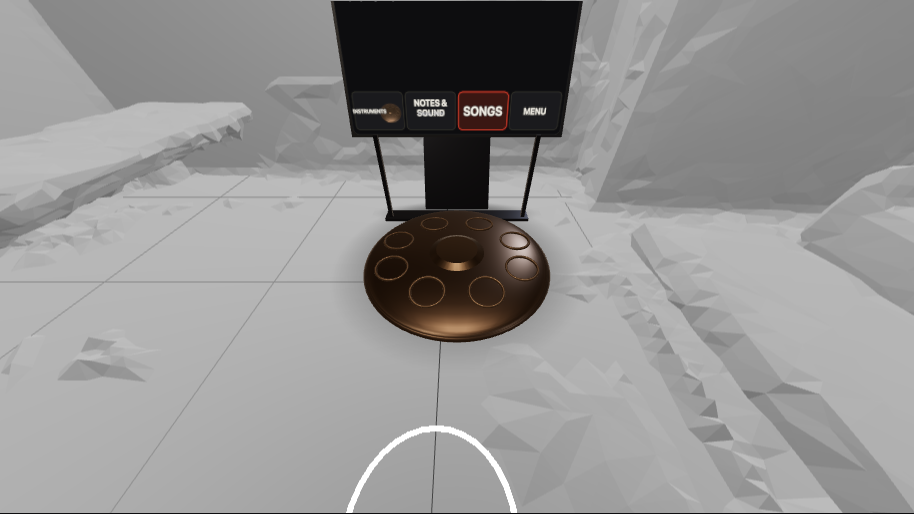
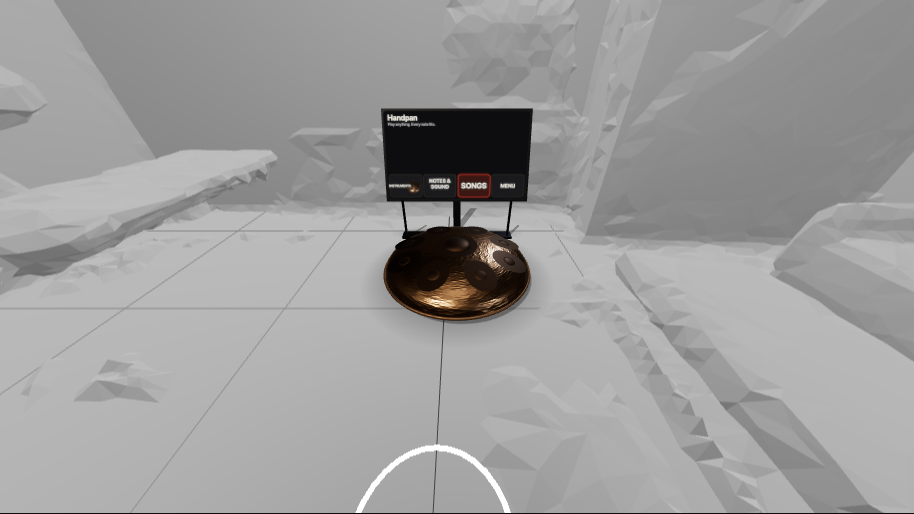
The handpan as a handpan; the marimba in darker rosewood
A lens of two hammered bronze shells joined at a rolled rim, 8 cm
tall, the ding a raised dome, the tone fields sunken ovals with a
dimple, tipped with the dome; struck by hand where each field is on
it, and a field a song asks for glows on the shell itself. The
marimba's bars a deep rosewood, its resonators longer in gold.

diff --git a/src/scene-assets/lib/instruments.ts b/src/scene-assets/lib/instruments.ts
@@ -6,11 +6,11 @@
  * when strummed. A handpan: a nitrided steel shell with its tone fields and raised ding. A marimba: rosewood bars
  * that bounce, on a frame. Deterministic: the same in the app and the editor.
  */
-import { BoxGeometry, CircleGeometry, DoubleSide, MeshBasicMaterial, CylinderGeometry, ExtrudeGeometry, Group, LatheGeometry, Mesh, MeshPhysicalMaterial, MeshStandardMaterial, RingGeometry, Shape, TorusGeometry, Vector2 } from '@iwsdk/core';
+import { BoxGeometry, CircleGeometry, SphereGeometry, DoubleSide, MeshBasicMaterial, CylinderGeometry, ExtrudeGeometry, Group, LatheGeometry, Mesh, MeshPhysicalMaterial, MeshStandardMaterial, RingGeometry, Shape, TorusGeometry, Vector2 } from '@iwsdk/core';
 import type { Zone } from '../../room/zones.js';
-import { CONGA, KEYBOARD, PIANO_CHORD } from '../../kit/shelf.js';
+import { CONGA, HANDPAN, KEYBOARD, PIANO_CHORD, handpanShape, handpanY } from '../../kit/shelf.js';
 import { KEY, buildPiano, isBlack } from './piano.js';
-import { fineNormal, woodGrain } from './surfaces.js';
+import { fineNormal, hammered, woodGrain } from './surfaces.js';
 
 const mat = (name: string, color: number, roughness: number, metalness = 0) => new MeshStandardMaterial({ name, color, roughness, metalness });
 const named = <T extends { name: string }>(o: T, n: string): T => {
@@ -23,6 +23,8 @@ export interface DeskModel {
   readonly root: Group;
   layout(zones: readonly Zone[]): void;
   struck(i: number, gain: number): void;
+  /** Light part i at k (0..1) when a song asks for it, if it lights itself (else the overlay does). */
+  light?(i: number, k: number): void;
   update(dt: number): void;
 }
 
@@ -233,51 +235,67 @@ export class HandpanModel implements DeskModel {
   readonly root = named(new Group(), 'Handpan');
   private fields: Mesh[] = [];
   private spring = new Springs(10);
-  private shell: Mesh | null = null;
-  // (both sides drawn: the lathe's faces turn inward, and from above the shell vanished)
-  private readonly steel = new MeshStandardMaterial({ name: 'Steel', color: 0x4a3a2c, roughness: 0.32, metalness: 0.85, side: DoubleSide });
-  private readonly field = mat('Field', 0x5c4a38, 0.22, 0.9);
   private glow: number[] = [];
+  // nitrided steel: warm bronze, hammered all over
+  private readonly steel = (() => {
+    const n = hammered().clone();
+    n.needsUpdate = true;
+    n.repeat.set(9, 9);
+    return new MeshStandardMaterial({ name: 'Steel', color: 0x8a6a4c, roughness: 0.28, metalness: 1, normalMap: n, side: DoubleSide });
+  })();
+  private readonly rim = new MeshStandardMaterial({ name: 'Rim', color: 0x8a6a4c, roughness: 0.2, metalness: 1 });
+  private readonly fieldMat = new MeshStandardMaterial({ name: 'Field', color: 0x4a3828, roughness: 0.45, metalness: 1 });
 
   layout(zones: readonly Zone[]): void {
     this.root.clear();
     this.fields = [];
     if (!zones.length) return;
-    const ding = zones[0];
-    let R = 0;
-    for (const q of zones) R = Math.max(R, Math.hypot(q.x - ding.x, q.z - ding.z) + q.w);
-    R += 0.012;
-    // the shell: a low steel dome with a rolled rim (a handpan's lens shape, seen from above)
-    // (low: your hand lands on the real desk under it, so it stays a lens, not a dome)
-    const H = 0.016;
-    const pts: Vector2[] = [];
-    for (let k = 0; k <= 16; k++) {
-      const a = (k / 16) * (Math.PI / 2);
-      pts.push(new Vector2(Math.cos(a) * R + 0.0001, 0.006 + Math.sin(a) * H * Math.cos(a * 0.3)));
+    const { x: cx, z: cz, R } = handpanShape(zones);
+    // the lens: a top shell rising to the ding, a shallower bottom shell down to the desk (its port underneath),
+    // joined at a rolled rim
+    const top: Vector2[] = [];
+    for (let k = 0; k <= 24; k++) {
+      const r = R * (1 - k / 24);
+      top.push(new Vector2(Math.max(0.0005, r), handpanY(r, R)));
     }
-    pts.reverse();
-    pts.push(new Vector2(R + 0.004, 0.004), new Vector2(R + 0.002, 0));
-    this.shell = named(new Mesh(new LatheGeometry(pts, 64), this.steel), 'Shell');
-    this.shell.position.set(ding.x, 0, -ding.z);
-    this.root.add(this.shell);
-    // tone fields: shallow dimples on the shell, the ding raised in the middle
+    const shell = named(new Mesh(new LatheGeometry(top.reverse(), 72), this.steel), 'Shell');
+    const bottom: Vector2[] = [];
+    for (let k = 0; k <= 12; k++) {
+      const t = k / 12;
+      bottom.push(new Vector2(R * (1 - 0.45 * t), HANDPAN.rim * (1 - t * t) + 0.001));
+    }
+    const under = named(new Mesh(new LatheGeometry(bottom, 72), this.steel), 'Bottom');
+    const band = named(new Mesh(new TorusGeometry(R, 0.0028, 10, 96), this.rim), 'Rim');
+    band.rotation.x = -Math.PI / 2;
+    band.position.y = HANDPAN.rim;
+    for (const m of [shell, under, band]) m.position.set(cx, m.position.y, -cz);
+    this.root.add(shell, under, band);
+    // the ding: a raised dome; the tone fields: sunken ovals (longer along the radius) with a dimple, on the shell
     zones.forEach((q, i) => {
-      const r = q.w;
-      const d = Math.hypot(q.x - ding.x, q.z - ding.z) / R;
-      const y = 0.006 + H * Math.sqrt(Math.max(0, 1 - d * d)) * 0.98;
-      const g = i === 0 ? new CylinderGeometry(r * 0.75, r, 0.006, 40) : new TorusGeometry(r * 0.82, 0.0022, 8, 40);
-      // (each field its own material, so a struck one can glow)
-      const m = named(new Mesh(g, this.field.clone()), i === 0 ? 'Ding' : `Field${i}`);
-      if (i !== 0) m.rotation.x = -Math.PI / 2;
-      m.position.set(q.x, y + (i === 0 ? 0.003 : 0.001), -q.z);
-      // tilted with the dome under it
-      if (i !== 0) {
-        // tilted with the dome under it
-        m.rotation.z = -((q.x - ding.x) / R) * 0.25;
-        m.rotation.x = -Math.PI / 2 - ((q.z - ding.z) / R) * 0.25;
-      }
-      this.fields.push(m);
-      this.root.add(m);
+      const dx = q.x - cx;
+      const dz = q.z - cz;
+      const d = Math.hypot(dx, dz);
+      const y = handpanY(d, R);
+      const g = new Group();
+      g.name = i === 0 ? 'Ding' : `Field${i}`;
+      g.position.set(q.x, y, -q.z);
+      // tip it with the dome under it
+      const slope = (HANDPAN.dome * d) / (R * R * Math.sqrt(Math.max(0.05, 1 - (d / R) * (d / R))));
+      // (turned to face out from the centre, in the scene's own axes: z toward you is the zones' −z; then tipped
+      // outward with the dome)
+      g.rotation.order = 'YXZ';
+      g.rotation.y = Math.atan2(dx, -dz);
+      g.rotation.x = Math.atan(slope);
+      const mat = this.fieldMat.clone();
+      const oval = new Mesh(new CircleGeometry(q.w * 0.92, 40), mat);
+      oval.rotation.x = -Math.PI / 2;
+      oval.scale.set(1, i === 0 ? 1 : 1.3, 1);
+      oval.position.y = 0.0006;
+      const dome = new Mesh(new SphereGeometry(q.w * (i === 0 ? 0.62 : 0.42), 28, 12, 0, Math.PI * 2, 0, Math.PI / 2), mat);
+      dome.scale.y = i === 0 ? 0.32 : 0.16;
+      g.add(oval, dome);
+      this.fields.push(oval);
+      this.root.add(g);
     });
   }
 
@@ -286,15 +304,25 @@ export class HandpanModel implements DeskModel {
     this.glow[i] = 0.6 + 0.6 * gain;
   }
 
+  /** A field asked for by a song glows on the shell itself. */
+  private asked: number[] = [];
+  light(i: number, k: number): void {
+    this.asked[i] = Math.max(this.asked[i] ?? 0, k);
+  }
+
   update(dt: number): void {
     this.spring.step(dt, 1400, 18);
-    this.fields.forEach((m, i) => {
-      // a struck field rings: it swells and glows warm, fading in about a sixth of a second
-      const s = 1 + Math.abs(this.spring.x[i]) * 12;
-      m.scale.set(s, i === 0 ? 1 : s, s);
+    for (let i = 0; i < this.fields.length; i++) {
+      const ask = this.asked[i] ?? 0;
+      this.asked[i] = 0;
+      if (ask > (this.glow[i] ?? 0)) this.glow[i] = ask * 0.9;
+      const m = this.fields[i];
+      // a struck field rings: it swells a touch and glows warm, fading in about a sixth of a second
+      const s = 1 + Math.abs(this.spring.x[i]) * 6;
+      m.parent!.scale.setScalar(s);
       const g = (this.glow[i] = Math.max(0, (this.glow[i] ?? 0) - dt * 6));
       (m.material as MeshStandardMaterial).emissive.setHex(0xffc27a).multiplyScalar(g);
-    });
+    }
   }
 }
 
@@ -308,12 +336,13 @@ export class MarimbaModel implements DeskModel {
     map.needsUpdate = true;
     map.repeat.set(18, 5);
     map.rotation = Math.PI / 2;
-    return new MeshPhysicalMaterial({ name: 'Rosewood', color: 0x8a3f20, map, roughness: 0.45, clearcoat: 0.6, clearcoatRoughness: 0.22 });
+    return new MeshPhysicalMaterial({ name: 'Rosewood', color: 0x5e2a1a, map, roughness: 0.38, clearcoat: 0.5, clearcoatRoughness: 0.22 });
   })();
   private readonly frame = new MeshPhysicalMaterial({ name: 'Frame', color: 0x3b2416, map: woodGrain(43), roughness: 0.5, clearcoat: 0.4, clearcoatRoughness: 0.3 });
   private readonly cord = mat('Cord', 0x26211c, 0.9);
   private readonly brass = mat('Brass', 0xc8a050, 0.3, 1);
   private readonly chrome = mat('Chrome', 0xe2e5ea, 0.16, 1);
+  private readonly gold = mat('Anodised', 0xb8955a, 0.3, 1);
 
   layout(zones: readonly Zone[]): void {
     this.root.clear();
@@ -379,8 +408,8 @@ export class MarimbaModel implements DeskModel {
       bar.position.set(q.x, this.barY, -q.z);
       this.bars.push(bar);
       // its resonator: a chrome tube lying behind it, longer for the low bars, capped
-      const tl = 0.024 + 0.026 * (1 - i / Math.max(1, zones.length - 1));
-      const tube = named(new Mesh(new CylinderGeometry(0.0075, 0.0075, tl, 20, 1, false), this.chrome), `Resonator${i}`);
+      const tl = 0.06 + 0.08 * (1 - i / Math.max(1, zones.length - 1));
+      const tube = named(new Mesh(new CylinderGeometry(0.008, 0.008, tl, 20, 1, false), this.gold), `Resonator${i}`);
       tube.rotation.x = Math.PI / 2;
       tube.position.set(q.x, 0.0078, -(q.z + q.h / 2 + 0.012 + tl / 2));
       this.root.add(bar, tube);

diff --git a/src/room/room-system.ts b/src/room/room-system.ts
@@ -58,7 +58,7 @@ import { ACTIVE_M, AUTOPLAY, DEBUG, FIXED_DESK, params, NEAR_MAX, NEAR_MIN, SEAT
 import { SwapGesture } from './swaps.js';
 import { TouchFinder, becomesKeys, clapIn, grow, isClap, touchVoice, type Touch } from './touch.js';
 import { soundById, stepSound } from '../audio/bank.js';
-import { CONGA, KEYBOARD, PIANO_CHORD, PIANO_LOW, SCALES, SHELF, STRUM, instDef, instZones, percVoice, pianoBlacks, scaleById, scaleMidi, stepShelf, strumNotes, type InstId } from '../kit/shelf.js';
+import { CONGA, KEYBOARD, PIANO_CHORD, PIANO_LOW, SCALES, handpanShape, handpanY, SHELF, STRUM, instDef, instZones, percVoice, pianoBlacks, scaleById, scaleMidi, stepShelf, strumNotes, type InstId } from '../kit/shelf.js';
 import type { ShelfView } from '../play/game.js';
 import { Mallets } from './mallets.js';
 import { HitLog, TUNE_ITEMS, current, fmt, stepValue, type StrikeTune } from './tuning.js';
@@ -363,7 +363,7 @@ export class RoomSystem extends createSystem({ planes: { required: [XRPlane] }, 
         if (!key.startsWith(this.kit.instKey)) return;
         // (the guitar's strum lights its six strings)
         if (this.kit.inst === 'guitar' && r.zone >= 9) for (let s = 3; s < 9; s++) this.kit.instOverlay()?.light(s, k);
-        else this.kit.instOverlay()?.light(r.zone % PIANO_LOW, k);
+        else this.kit.instLight(r.zone % PIANO_LOW, k);
       } else if (r.surface) this.overlays.get(r.surface)?.light(r.zone, k);
     },
     shelf: (dir) => this.shelfStep(dir),
@@ -1380,7 +1380,8 @@ export class RoomSystem extends createSystem({ planes: { required: [XRPlane] }, 
       }
       const z = this.kit.instZones[r.zone % PIANO_LOW];
       if (!z) return false;
-      out.set(z.x, this.kit.inst === 'marimba' ? 0.016 : this.kit.inst === 'handpan' ? 0.02 : this.kit.inst === 'guitar' ? 0.024 : this.kit.inst === 'congas' ? CONGA.top + 0.002 : this.kit.inst === 'piano' ? KEYBOARD.top + 0.001 : 0.013, -z.z);
+      const hp = this.kit.inst === 'handpan' ? handpanShape(this.kit.instZones) : null;
+      out.set(z.x, this.kit.inst === 'marimba' ? 0.016 : hp ? handpanY(Math.hypot(z.x - hp.x, z.z - hp.z), hp.R) + 0.003 : this.kit.inst === 'guitar' ? 0.024 : this.kit.inst === 'congas' ? CONGA.top + 0.002 : this.kit.inst === 'piano' ? KEYBOARD.top + 0.001 : 0.013, -z.z);
       root.localToWorld(out);
       col.setHex(instDef(this.kit.inst).color);
       t.round = z.shape === 'disc';
@@ -2388,24 +2389,39 @@ export class RoomSystem extends createSystem({ planes: { required: [XRPlane] }, 
     const out = this.kitOutT >= 0 && this.placement.phase === 'placed';
     const drums = out && this.kit.inst === 'drums';
     const piano = out && this.kit.inst === 'piano';
-    const congas = out && this.kit.inst === 'congas';
+    const congas = out && (this.kit.inst === 'congas' || this.kit.inst === 'handpan');
+    const isPan = this.kit.inst === 'handpan';
     // the heads, where the pads stand now
     let n = 0;
     if (piano) n = this.pianoSurfaces();
     if (congas)
-      // (each drum's middle before its edge: a hand in the middle plays the open tone)
-      for (const pass of [0, 1])
+      if (isPan) {
+        // the handpan: each field a disc at its height on the dome
+        const sh = handpanShape(this.kit.instZones);
         for (const q of this.kit.instZones) {
-          if (q.i % 2 !== pass) continue;
           const s = this.airSurf[n++];
           s.id = q.i;
           s.face = 'up';
           s.x = q.x;
-          s.y = CONGA.top;
+          s.y = handpanY(Math.hypot(q.x - sh.x, q.z - sh.z), sh.R);
           s.z = -q.z;
-          s.r = q.w + (pass ? 0.006 : 0);
+          s.r = q.w + 0.004;
           s.w = undefined;
         }
+      } else
+        // (each conga's middle before its edge: a hand in the middle plays the open tone)
+        for (const pass of [0, 1])
+          for (const q of this.kit.instZones) {
+            if (q.i % 2 !== pass) continue;
+            const s = this.airSurf[n++];
+            s.id = q.i;
+            s.face = 'up';
+            s.x = q.x;
+            s.y = CONGA.top;
+            s.z = -q.z;
+            s.r = q.w + (pass ? 0.006 : 0);
+            s.w = undefined;
+          }
     if (drums)
       for (const lane of AIR_LANES) {
         const p = this.kit.pad(lane);
@@ -2475,7 +2491,7 @@ export class RoomSystem extends createSystem({ planes: { required: [XRPlane] }, 
           this.airStrike.gain = hit.gain;
           const pan = Math.max(-0.8, Math.min(0.8, this.airP.x / 0.4));
           if (congas) {
-            this.playZone('congas', hit.surface, side, hit.gain, pan, this.clock.t, this.airStrike);
+            this.playZone(this.kit.inst, hit.surface, side, hit.gain, pan, this.clock.t, this.airStrike);
             this.debug.hits++;
             continue;
           }
@@ -2841,7 +2857,7 @@ export class RoomSystem extends createSystem({ planes: { required: [XRPlane] }, 
     const pan = Math.max(-0.8, Math.min(0.8, x / 0.4));
     // (the piano's keys are up in its case: fingertips press them there, src/input/air-hits.ts; the desk under it
     // plays nothing)
-    if (id === 'piano' || id === 'congas') return;
+    if (id === 'piano' || id === 'congas' || id === 'handpan') return;
     // the nearest zone the hand is on (with a little give round each)
     let best = -1;
     let bd = Infinity;
@@ -3712,7 +3728,7 @@ export class RoomSystem extends createSystem({ planes: { required: [XRPlane] }, 
       const id = key.slice(0, key.indexOf(':')) as InstId;
       const q = this.kit.inst === id ? this.kit.instZones[r.zone % PIANO_LOW] : null;
       // (the piano's keys are pressed in the air: as a finger would)
-      if (q && (id === 'piano' || id === 'congas')) {
+      if (q && (id === 'piano' || id === 'congas' || id === 'handpan')) {
         const st = fakeStrike(t);
         this.playZone(id, q.i, 'left', st.gain, 0, t, st);
       } else if (q) {
@@ -3856,7 +3872,8 @@ export class RoomSystem extends createSystem({ planes: { required: [XRPlane] }, 
     // the instrument on the desk: each of its notes (and the guitar's strum band)
     // (each where it's struck: the piano's keys are up in its case)
     const top = this.kit.inst === 'piano' ? KEYBOARD.top : this.kit.inst === 'congas' ? CONGA.top : 0;
-    this.kit.instZones.forEach((z, i) => (out[`inst${i}`] = root.localToWorld(this.tmp.set(z.x, top, -z.z)).toArray().map(r4)));
+    const hp = this.kit.inst === 'handpan' ? handpanShape(this.kit.instZones) : null;
+    this.kit.instZones.forEach((z, i) => (out[`inst${i}`] = root.localToWorld(this.tmp.set(z.x, hp ? handpanY(Math.hypot(z.x - hp.x, z.z - hp.z), hp.R) : top, -z.z)).toArray().map(r4)));
     if (this.kit.inst === 'guitar') out.strum = root.localToWorld(this.tmp.set((STRUM.x0 + STRUM.x1) / 2, 0, -(STRUM.z0 + STRUM.z1) / 2)).toArray().map(r4);
     out.inst = [SHELF.findIndex((d) => d.id === this.kit.inst)];
     for (const it of this.kit.module.page?.items ?? []) {

diff --git a/src/scene-assets/lib/surfaces.ts b/src/scene-assets/lib/surfaces.ts
@@ -99,3 +99,37 @@ export function cymbalRings(): { map: DataTexture; rough: DataTexture } {
   );
   return { map, rough };
 }
+
+/**
+ * Hammered steel (a normal map): shallow round dimples about 8 mm across, packed unevenly, the way a handpan's shell
+ * is hammered. Tiles; repeat it to the size wanted.
+ */
+export function hammered(): DataTexture {
+  return once('hammered', () => {
+    const r = rng(23);
+    const N = 128;
+    const cells = Array.from({ length: 70 }, () => ({ x: r() * N, y: r() * N }));
+    return tex(N, N, (x, y) => {
+      // the nearest dimple's centre (wrapping), and the slope toward it
+      let best = 1e9;
+      let dx = 0;
+      let dy = 0;
+      for (const c of cells)
+        for (const ox of [-N, 0, N])
+          for (const oy of [-N, 0, N]) {
+            const ex = x - (c.x + ox);
+            const ey = y - (c.y + oy);
+            const d = ex * ex + ey * ey;
+            if (d < best) {
+              best = d;
+              dx = ex;
+              dy = ey;
+            }
+          }
+      const k = Math.sqrt(best) / 9;
+      const s = Math.min(1, k) * 20;
+      const len = Math.sqrt(best) || 1;
+      return [128 + (dx / len) * s, 128 + (dy / len) * s, 245];
+    }, false);
+  });
+}

diff --git a/src/kit/shelf.ts b/src/kit/shelf.ts
@@ -216,6 +216,22 @@ export function congaZones(): Zone[] {
   return out;
 }
 
+/** The handpan's lens: its rim this high off the desk, its top shell rising this much more to the ding. */
+export const HANDPAN = { rim: 0.026, dome: 0.05 } as const;
+/** The handpan's centre and outer radius (from its zones: the ding first, the fields round it). */
+export function handpanShape(zones: readonly Zone[]): { x: number; z: number; R: number } {
+  const ding = zones[0];
+  if (!ding) return { x: 0, z: 0, R: 0.15 };
+  let R = 0;
+  for (const q of zones) R = Math.max(R, Math.hypot(q.x - ding.x, q.z - ding.z) + q.w);
+  return { x: ding.x, z: ding.z, R: R + 0.012 };
+}
+/** The top shell's height above the desk at distance `d` from the centre. */
+export function handpanY(d: number, R: number): number {
+  const k = Math.min(1, d / R);
+  return HANDPAN.rim + HANDPAN.dome * Math.sqrt(Math.max(0, 1 - k * k));
+}
+
 /** The handpan: a low ding in the middle (9 cm), eight notes round it (6 cm), climbing in a zig-zag left and right. */
 export function handpanZones(root: number, scale: Scale): Zone[] {
   const out: Zone[] = [{ i: 0, shape: 'disc', x: 0, z: 0.02, w: 0.045, h: 0, degree: 0, midi: scaleMidi(root, scale, 0) }];

diff --git a/src/kit/kit-view.ts b/src/kit/kit-view.ts
@@ -223,6 +223,13 @@ export class KitView {
     if (this.inst === 'piano') this.models.get('piano')?.struck(30 + j, gain);
   }
 
+  /** Light zone i of the instrument out at k: on the model itself if it lights itself (the handpan), else its overlay. */
+  instLight(i: number, k: number): void {
+    const m = this.models.get(this.inst);
+    if (m?.light) m.light(i, k);
+    else this.instOverlay()?.light(i, k);
+  }
+
   /** The overlay of the instrument on the desk (null for the drums). */
   instOverlay(): Overlay | null {
     return this.inst === 'drums' ? null : (this.shelf.get(this.inst) ?? null);
